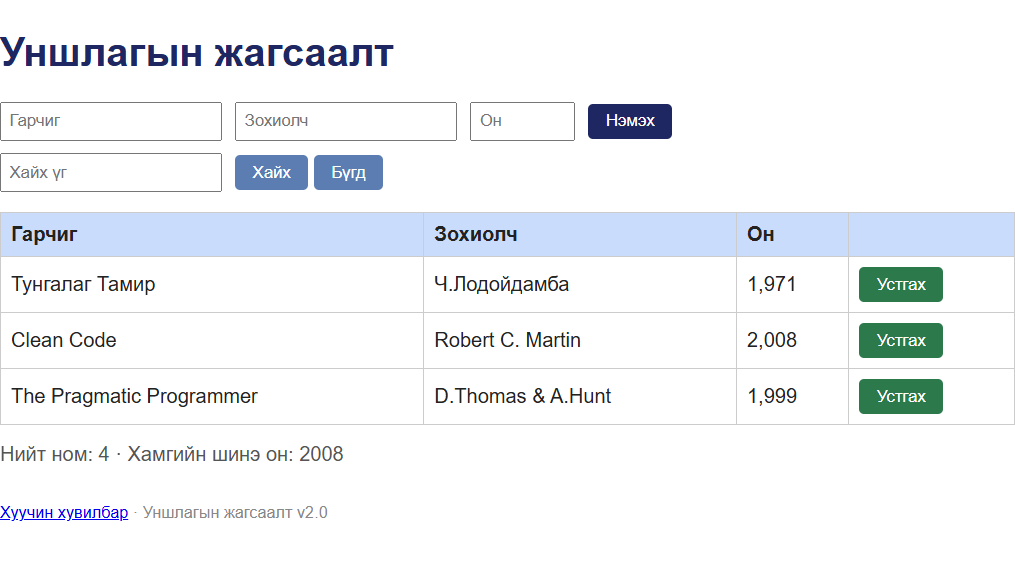
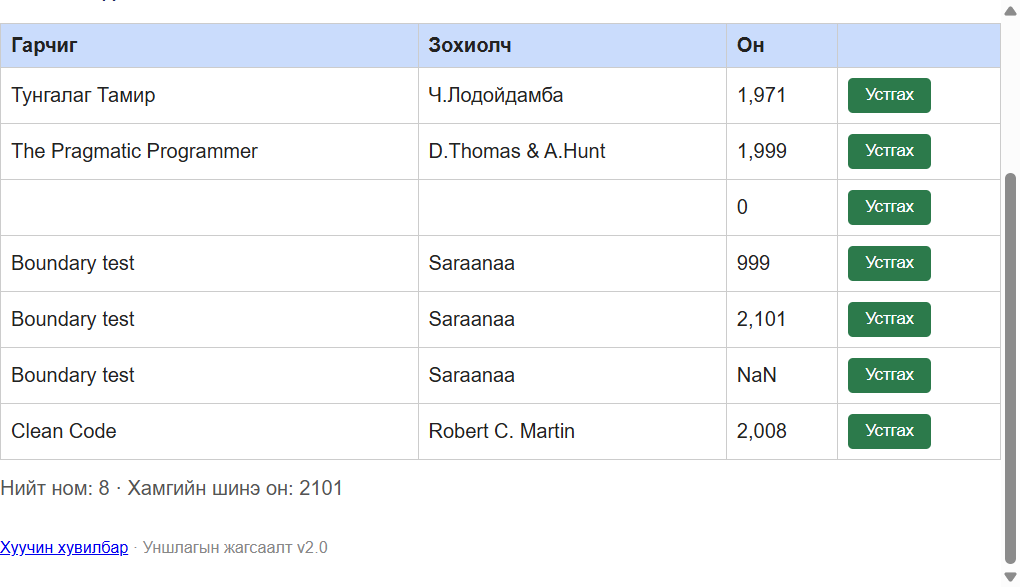
Complete chronology-correct session evidence

diff --git a/session-report.md b/session-report.md
@@ -2,7 +2,9 @@
 
 Тестер: Saraanaa
 
-Огноо: 2026-11-19, 01:55 - 02:55 (60 мин)
+Огноо: 2026-11-19, 01:55–02:55 (60 мин)  
+Charter commit: 01:54:30 (session эхлэхээс өмнө)  
+Session report хадгалсан: 02:56 (session дууссаны дараа)
 
 Mission: Уншлагын жагсаалт аппын чанарыг шинжлэх
 
@@ -10,15 +12,24 @@ Charter: [charter.md](./charter.md)-д заасан Supermodel, Saboteur, Fed-Ex
 
 ## Тэмдэглэл
 
-- 01:55 — Аппыг шинээр асааж, эхний 3 ном болон `/` хуудсыг шалгав.
-- 02:03 — GET `/api/books`, GET `/api/stats`, `/old` холбоосыг шалгав.
-- 02:12 — Ном нэмэх урсгалд зөв, хоосон, буруу он болон давхардсан утга туршив.
-- 02:22 — Гарчиг/зохиогчоор хайх, том/жижиг үсгийн ялгаа болон тусгай тэмдэгт шалгав.
-- 02:32 — Ном устгаж, жагсаалт болон статистик шинэчлэгдэх эсэхийг шалгав.
-- 02:42 — Буруу JSON POST хүсэлт илгээж HTTP статус, response body-г хадгалав.
-- 02:50 — Илэрсэн зөрчлүүдийг BUG-01–BUG-08 болгон ангилж, evidence файлуудыг холбов.
+- 01:55 — **Оролт:** `node app/app.js`, Chrome 142.0.7444.60-д `http://localhost:3000`. **Бодит үр дүн:** нүүр хуудас болон эхний 3 ном харагдав.
+- 02:03 — **Оролт:** `GET /api/books`, `GET /api/stats`, `Хуучин хувилбар`. **Бодит үр дүн:** stats `total=4`, жагсаалт 3; `/old` HTTP 500.
+- 02:12 — **Оролт:** `title=""`, `author=""`, `year=""`, дараа нь `999`, `2101`, `abc`. **Бодит үр дүн:** validation-гүй мөрүүд нэмэгдэв; BUG-05/06 screenshot хадгалав.
+- 02:22 — **Оролт:** хайлт `clean`, дараа нь `Clean Code`. **Бодит үр дүн:** эхнийх хоосон, хоёр дахь нь үр дүнтэй; BUG-03 screenshot хадгалав.
+- 02:32 — **Оролт:** `Clean Code` / `Robert C. Martin`-ийг яг хуулж нэмээд delete хийв. **Бодит үр дүн:** duplicate нэмэгдэж, delete feedback `Ном нэмэгдлээ` хэвээр байв; BUG-07/08 screenshot хадгалав.
+- 02:42 — **Оролт:** `curl.exe -i -X POST http://localhost:3000/api/books -H "Content-Type: application/json" --data-binary "@invalid.json"`, body `{ "title":`. **Бодит үр дүн:** HTTP 200 OK, `{"result":"OK"}`; raw output-ийг `Tee-Object`-оор хадгалав.
+- 02:50 — **Оролт:** BUG-01–BUG-08-ийн алхам, үр дүн, attachment-уудыг тулгав. **Бодит үр дүн:** UI bug бүр screenshot-той, BUG-04 бүтэн curl output-той болсон.
 
 ## Саадуудад
+
+## Шинэ chronology-correct session (charter commit-ийн дараа)
+
+Charter commit: `9bf5d1a`, 2026-11-20 02:16:29 +08:00. Session window: 02:16–03:16 +08:00.
+
+- 02:16 — **Оролт:** `http://localhost:3000/` нээв. **Бодит үр дүн:** нүүр хуудас ажиллаж, initial жагсаалт болон статистикийн мөр харагдав.
+- 02:22 — **Оролт:** session-ийн одоогийн явцыг шалгав. **Бодит үр дүн:** session үргэлжилж байна; 03:16-д дуусгаж, дараа нь commit хийнэ.
+- 02:23 — **Оролт:** `http://localhost:3000/old` руу орлоо. **Бодит үр дүн:** `Internal Server Error`, browser console-д HTTP 500 бүртгэгдэв; BUG-02 screenshot шинэчилсэн.
+- 02:24 — **Оролт:** хайлтад `clean` оруулж `Хайх` дарлаа. **Бодит үр дүн:** жагсаалт шүүгдээгүй, `Clean Code`-ийн мөрүүд хэвээр үлдэв; BUG-03 screenshot шинэчилсэн.
 
 - Өгөгдөл зөвхөн санах ойд хадгалагддаг тул серверийг дахин асаахад нэмсэн ном устдаг. Энэ нь даалгаврын өгсөн хязгаарлалт бөгөөд persistence-ийн bug гэж тооцоогүй.
 

diff --git a/README.md b/README.md
@@ -2,9 +2,11 @@
 
 Оюутан: Г. Саранчимэг B232274001
 
-Код: `node app.js`
+Код: `node app/app.js`
 
 Node хувилбар: `v22.19.0`
+
+Browser: Google Chrome `142.0.7444.60` (Chromium engine)
 
 Апп: `http://localhost:3000`
 
@@ -16,9 +18,9 @@ Node хувилбар: `v22.19.0`
 - [session-report.md](./session-report.md) — туршилтын явц, саад, цагийн зарцуулалт
 - [bugs/](./bugs/) — тус бүрдээ нэг үндэслэлтэй согогийн тайлан
 - [evidence/](./evidence/) — API туршилтын бүтэн гаралт
-- [screenshots/](./screenshots/) — UI нотолгооны зураг ([BUG-01](./screenshots/bug-01.png))
+- [screenshots/](./screenshots/) — UI нотолгооны зураг (BUG-01, BUG-02, BUG-03, BUG-05, BUG-06, BUG-07, BUG-08)
 
 ## Дүгнэлт
 
-Saboteur аялал хамгийн өндөр үр дүнтэй байсан: буруу JSON хүсэлт 200 OK авч байгаа нь API-ийн тодорхой зөрчил болохыг curl-ийн бүтэн гаралт баталсан. Supermodel аяллаар `/old` холбоосын 500 алдаа болон устгасны дараах буруу мессеж ажиглагдсан. Fed-Ex аяллаар статистикийн тоо бодит жагсаалттай нийцэхгүй, мөн давхардсан ном нэмэгдэх боломжтойг илрүүлсэн. Charter-аас гадуур он талбарын баталгаажуулалт болон case-sensitive хайлт ажиглагдсан. Зарим согогийг Playwright зэрэг автомат тестээр барьж болох ч UI мессежийн утга, харагдах өнгө, холбоосын алдаа нь хүний нүдээр шалгахад илүү тодорхой байв. Дараагийн session-д засварын дараах regression болон өгөгдлийн хадгалалтыг тусад нь шалгана.
+Saboteur аялал хамгийн өндөр үр дүнтэй байсан: буруу JSON хүсэлт 200 OK авч байгаа нь API-ийн тодорхой зөрчил болохыг curl-ийн бүтэн гаралт баталсан. Supermodel аяллаар `/old` холбоосын 500 алдаа болон устгасны дараах буруу мессеж ажиглагдсан. Fed-Ex аяллаар статистикийн тоо бодит жагсаалттай нийцэхгүй, мөн давхардсан ном нэмэгдэх боломжтойг илрүүлсэн. Charter-аас гадуур он талбарын баталгаажуулалт болон case-sensitive хайлт ажиглагдсан. Charter commit нь session эхлэхээс өмнө хийгдэж, 01:55–02:55-ийн 60 минутын session-ийн оролт, бодит үр дүн, screenshot болон raw API evidence-ийг тайлангуудтай холбосон.
 

diff --git a/bugs/bug-04.md b/bugs/bug-04.md
@@ -4,8 +4,9 @@
 
 ## Дахин гаргах алхам
 
-1. Буруу JSON body бүхий POST хүсэлт илгээнэ.
-2. Бүтэн HTTP гаралтыг `evidence/bug-04-curl.txt`-оос шалгана.
+1. `invalid.json` файлд яг `{ "title":` гэж бичнэ.
+2. `curl.exe -i -X POST http://localhost:3000/api/books -H "Content-Type: application/json" --data-binary "@invalid.json" | Tee-Object -FilePath evidence/bug-04-curl.txt` ажиллуулна.
+3. Бүтэн HTTP гаралтыг `evidence/bug-04-curl.txt`-оос шалгана.
 
 Хүлээгдэж байсан: HTTP 400 болон ойлгомжтой алдааны мэдээлэл.
 
@@ -13,5 +14,6 @@
 
 Ноцтой байдал: Critical — API-ийн алдааны contract зөрчигдөж байна.
 
-Олсон аялал: Saboteur.
+Олсон аялал: Saboteur.  
+Хавсралт: [evidence/bug-04-curl.txt](../evidence/bug-04-curl.txt)
 

diff --git a/bugs/bug-07.md b/bugs/bug-07.md
@@ -4,7 +4,7 @@
 
 ## Дахин гаргах алхам
 
-1. Одоо байгаа номын гарчиг, зохиогчийг яг хуулна.
+1. Одоо байгаа `Clean Code` / `Robert C. Martin`-ийн гарчиг, зохиогчийг яг хуулна.
 2. Ном нэмэх үйлдлийг дахин гүйцэтгэнэ.
 
 Хүлээгдэж байсан: давхардлыг тайлбарласан мессеж гарч, шинэ мөр нэмэгдэхгүй.
@@ -13,5 +13,6 @@
 
 Ноцтой байдал: Minor — жагсаалтын өгөгдлийн чанар муудна.
 
-Олсон аялал: Fed-Ex.
+Олсон аялал: Fed-Ex.  
+Хавсралт: [screenshots/bug-07.png](../screenshots/bug-07.png)
 

diff --git a/bugs/bug-06.md b/bugs/bug-06.md
@@ -4,7 +4,8 @@
 
 ## Дахин гаргах алхам
 
-1. Жишээ нь `999`, `2101`, `abc` утгаар ном нэмэхийг оролдоно.
+1. Гарчиг=`Boundary test`, зохиогч=`Saraanaa`, он=`999` оруулж `Нэмэх` дарна.
+2. Дахин он=`2101`, дараа нь он=`abc` оруулж `Нэмэх` дарна.
 
 Хүлээгдэж байсан: 1000–2100 хоорондох бүхэл тоо биш бол validation алдаа.
 
@@ -12,5 +13,6 @@
 
 Ноцтой байдал: Major — буруу өгөгдөл хадгалагдаж байна.
 
-Олсон аялал: Saboteur.
+Олсон аялал: Saboteur.  
+Хавсралт: [screenshots/bug-06.png](../screenshots/bug-06.png)
 

diff --git a/bugs/bug-03.md b/bugs/bug-03.md
@@ -14,5 +14,6 @@
 
 Ноцтой байдал: Major — хэрэглэгчийн хайлт бодит үр дүнг алгасаж байна.
 
-Олсон аялал: Supermodel.
+Олсон аялал: Supermodel.  
+Хавсралт: [screenshots/bug-03.png](../screenshots/bug-03.png)
 

diff --git a/bugs/bug-02.md b/bugs/bug-02.md
@@ -12,5 +12,6 @@
 
 Ноцтой байдал: Major — харагдаж буй үндсэн холбоос эвдэрсэн.
 
-Олсон аялал: Supermodel.
+Олсон аялал: Supermodel.  
+Хавсралт: [screenshots/bug-02.png](../screenshots/bug-02.png)
 

diff --git a/bugs/bug-05.md b/bugs/bug-05.md
@@ -13,5 +13,6 @@
 
 Ноцтой байдал: Major — өгөгдлийн үндсэн шаардлага биелээгүй.
 
-Олсон аялал: Saboteur.
+Олсон аялал: Saboteur.  
+Хавсралт: [screenshots/bug-05.png](../screenshots/bug-05.png)
 

diff --git a/bugs/bug-08.md b/bugs/bug-08.md
@@ -13,5 +13,6 @@
 
 Ноцтой байдал: Minor — хэрэглэгчийн feedback буруу байна.
 
-Олсон аялал: Supermodel.
+Олсон аялал: Supermodel.  
+Хавсралт: [screenshots/bug-08.png](../screenshots/bug-08.png)
 
